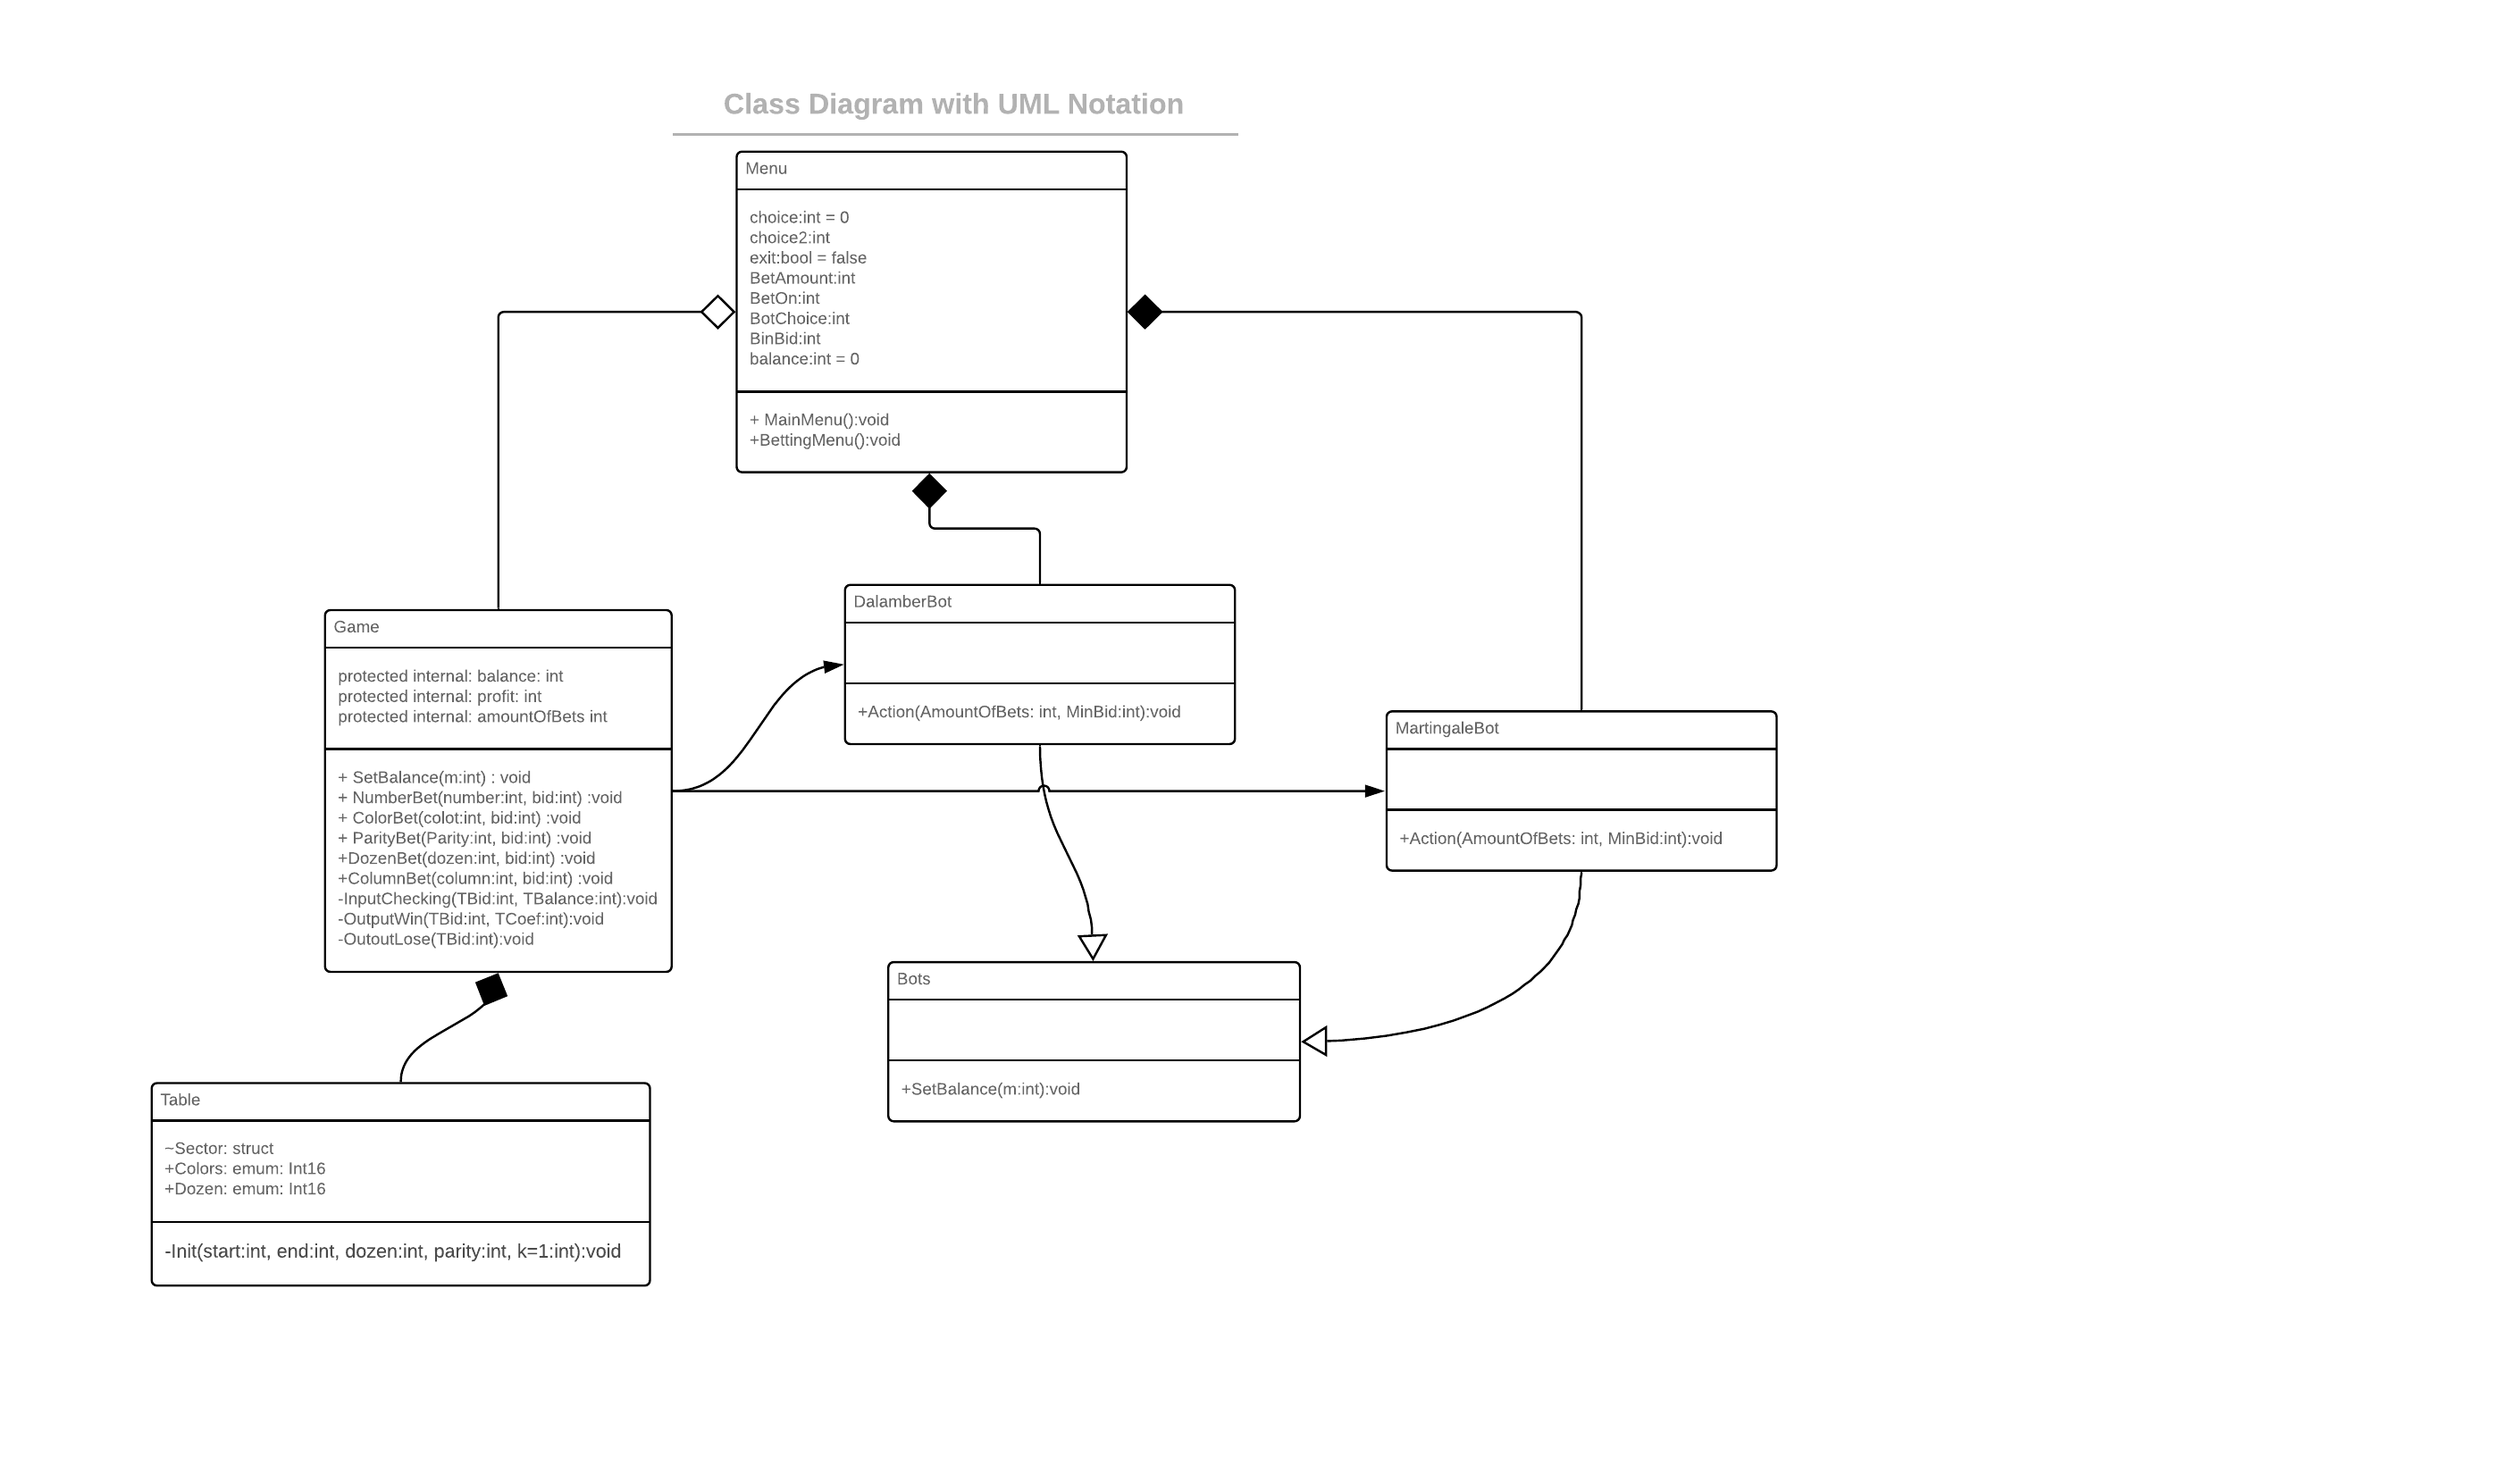
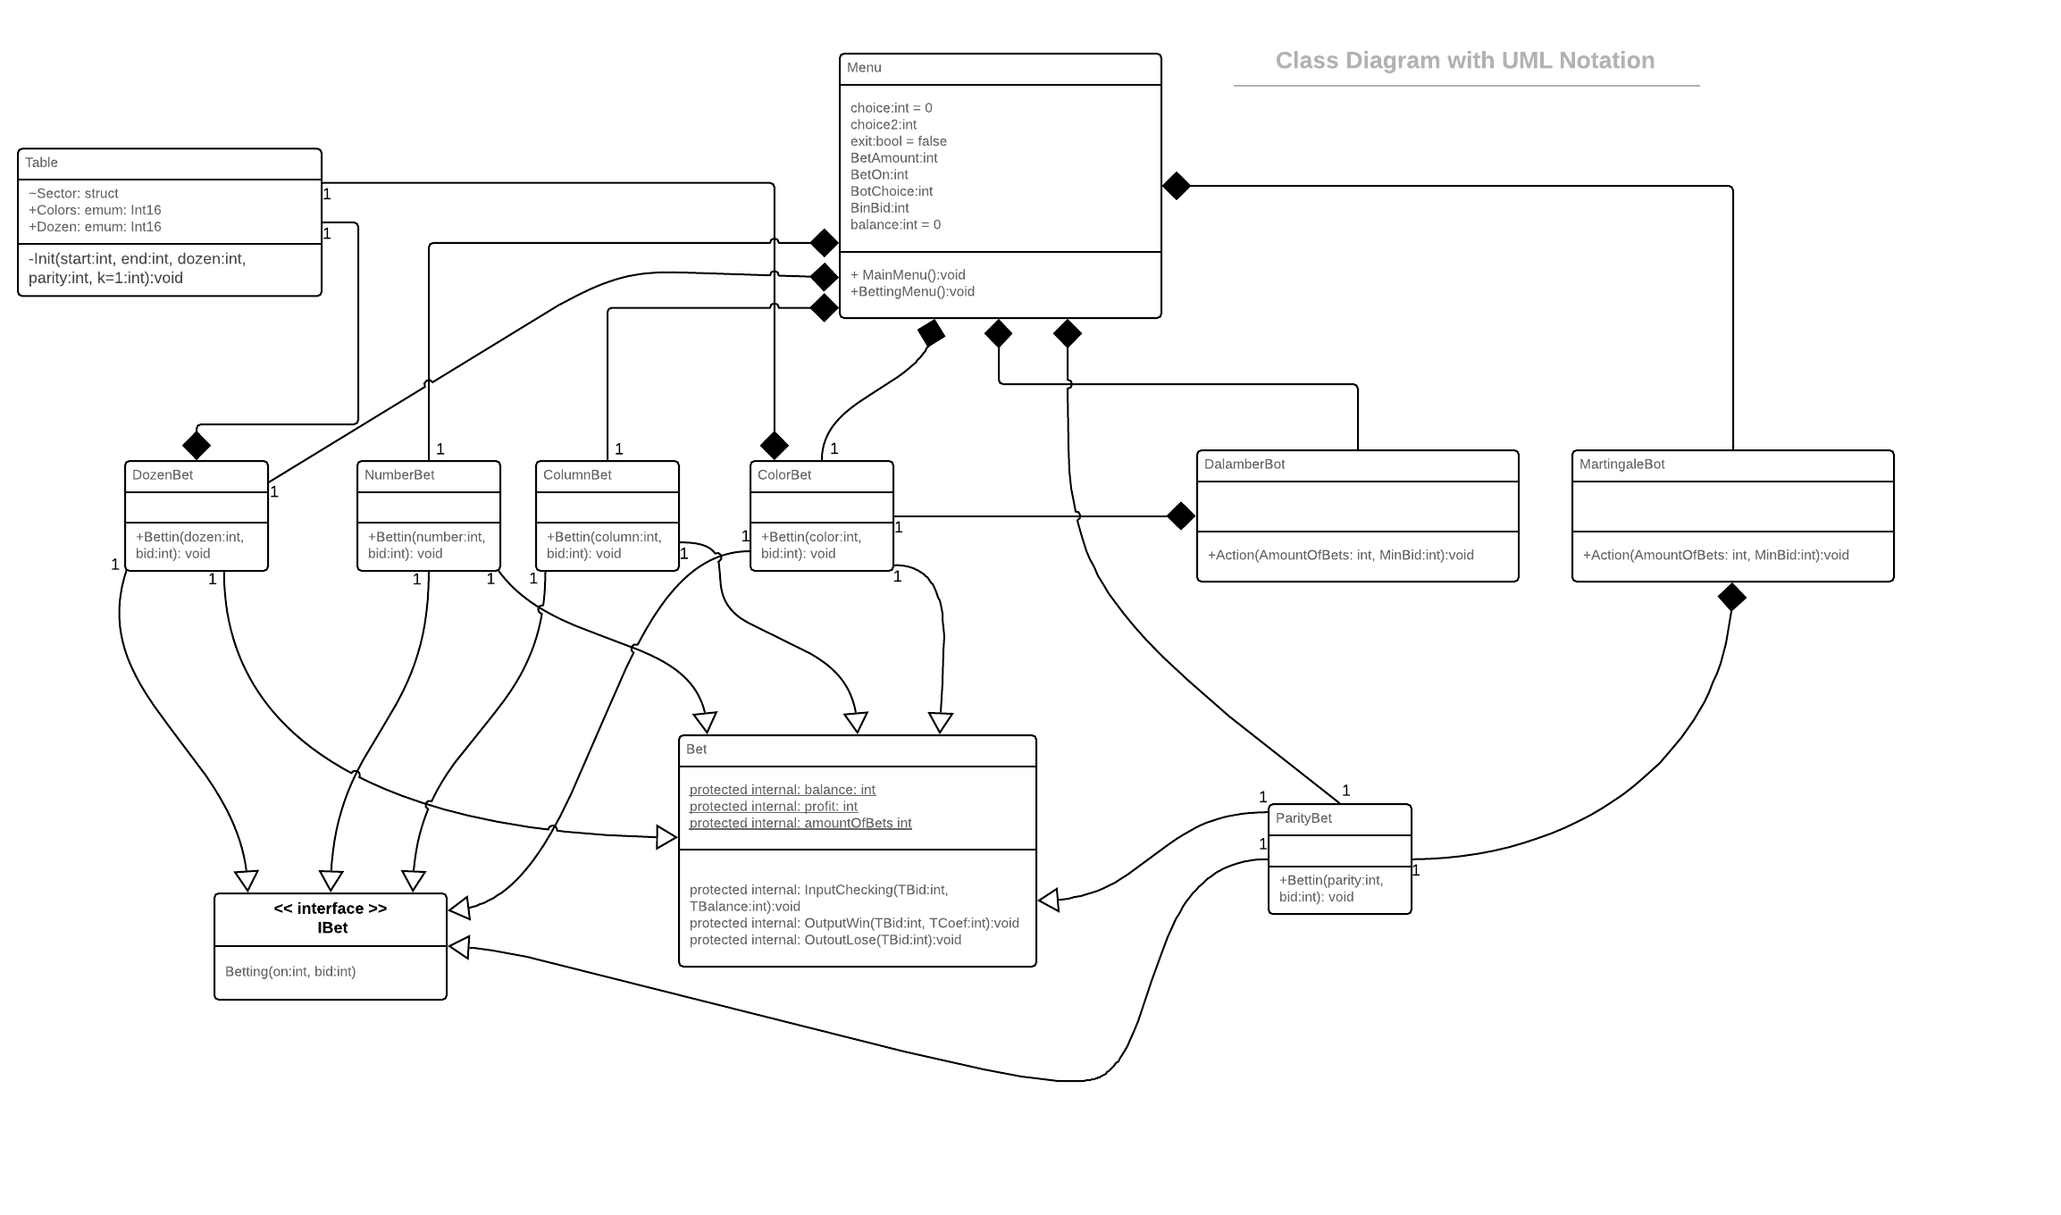
uml fixed

diff --git a/HomeWork/Spring/HomeWork/Casino Case/Casino Case/Bot/MartingaleBot.cs b/HomeWork/Spring/HomeWork/Casino Case/Casino Case/Bot/MartingaleBot.cs
@@ -5,9 +5,10 @@ using System.Text;
 
 namespace Casino_Case.Bot
 {
-
-    public class MartingaleBot : Bots
+    
+    public class MartingaleBot
     {
+        private ParityBet BotParityBet = new ParityBet();
         public void Action(int AmountOfBets, int MinBid)
         {
             int BidOn = 0;

diff --git a/HomeWork/Spring/HomeWork/Casino Case/Casino Case/Bot/DalamberBot.cs b/HomeWork/Spring/HomeWork/Casino Case/Casino Case/Bot/DalamberBot.cs
@@ -5,8 +5,9 @@ using System.Text;
 
 namespace Casino_Case.Bot
 {
-  public  class DalamberBot : Bots
+  public  class DalamberBot
     {
+        private ColorBet BotColorBet = new ColorBet();
         public void Action(int AmountOfBets, int MinBid)
         {
             int BidOn = 0;
